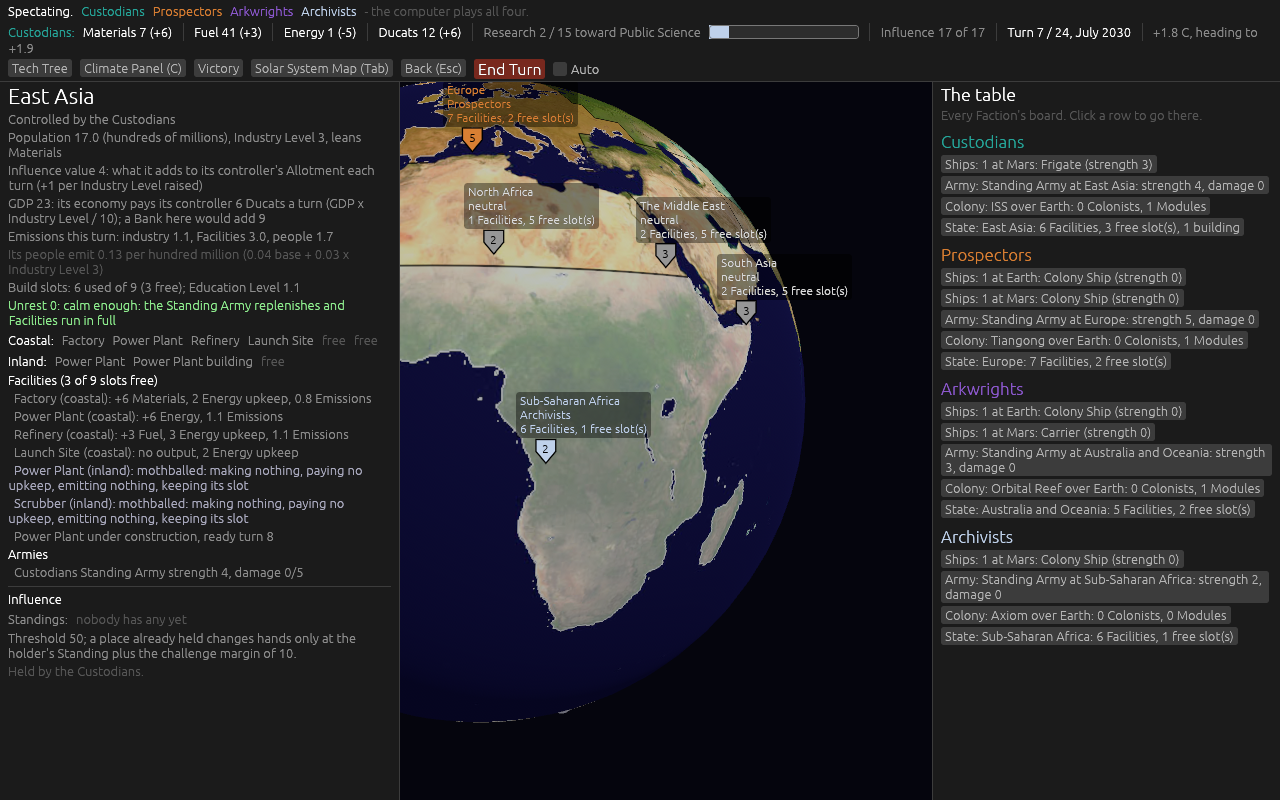
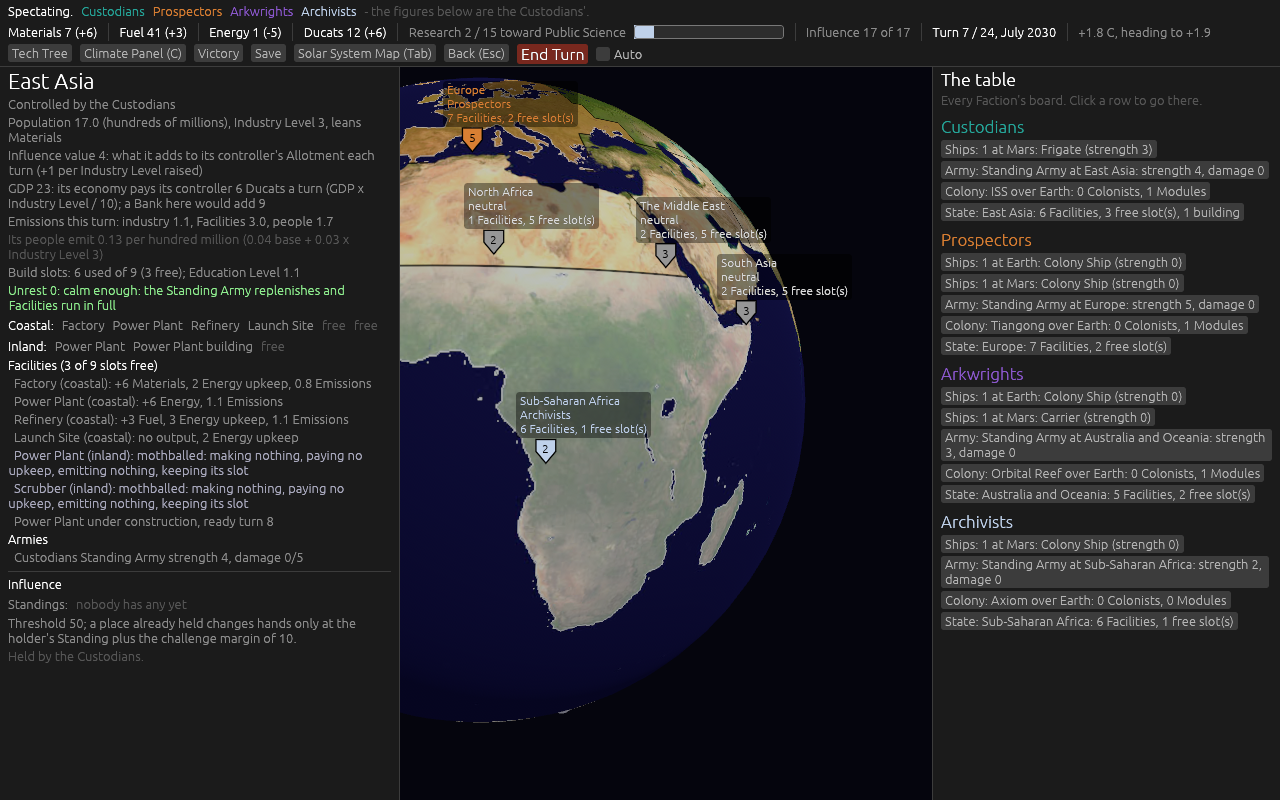
Ticket #60: four small fixes
A Wildfire on a neutral Nation State now charges its Emissions to the cards line; the state card's figure for taking a held place includes the challenge margin; the AI builds a Constabulary where Unrest has reached 5 by letting it take the victory-gap multiplier; the spectator's top bar fits one line.

Claude-Session: https://claude.ai/code/session_0142jnuNEp8W3FE5CKMd9o35

Changed region(s): [[0.0, 0.0, 0.5938, 0.8438], [0.7188, 0.0938, 1.0, 0.8125], [0.625, 0.0312, 0.9688, 0.0625]]

diff --git a/engine/tests/formulas.rs b/engine/tests/formulas.rs
@@ -4475,3 +4475,109 @@ fn the_spectators_dispatch_carries_every_factions_works_and_all_four_paragraphs(
     p.end_turn(std::array::from_fn(|_| Vec::new()));
     assert!(p.faction_paragraphs().iter().all(|(s, _)| *s != Seat(0)), "a player's Report keeps seat 0 out of the rivals");
 }
+// ---------------------------------------------------------------- Ticket #60: four small fixes
+
+/// A Wildfire is the world's carbon wherever it burns, so the Emissions it leaves stand on the
+/// cards line whether or not a Faction directs the state. Until this ticket the line sat inside the
+/// directed branch of `emissions_now` -- an accident of where ticket #24's `continue` landed -- so
+/// a Wildfire on a state nobody holds charged nothing at all.
+#[test]
+fn a_wildfire_on_a_neutral_nation_state_charges_its_emissions_to_the_cards_line() {
+    let mut g = game();
+    calm(&mut g);
+    let sid = StateId::NorthAfrica;
+    assert!(g.state(sid).control.director().is_none(), "North Africa is neutral at the start");
+    let before = g.emissions_now();
+    g.last_event = Some(DrawnEvent { card: Card::Event(EventId::Wildfire), target: EventTarget::State(sid), scale: 1.0, text: String::new() });
+    g.apply_event_now();
+    let after = g.emissions_now();
+    assert_eq!(after.cards - before.cards, g.tables.events.wildfire_emissions, "a Wildfire on a neutral state adds its Emissions to the cards line");
+    // And it stays the world's doing: nobody's Blame.
+    assert_eq!(after.by_seat, before.by_seat, "an Event card is nobody's Blame, neutral state or not");
+    // A Wildfire on a directed state charges the same line, as it always has.
+    let mut g = game();
+    calm(&mut g);
+    g.take_control(sid, Seat(1));
+    let before = g.emissions_now().cards;
+    g.last_event = Some(DrawnEvent { card: Card::Event(EventId::Wildfire), target: EventTarget::State(sid), scale: 1.0, text: String::new() });
+    g.apply_event_now();
+    assert_eq!(g.emissions_now().cards - before, g.tables.events.wildfire_emissions, "and a directed state is unchanged");
+}
+
+/// Ticket #41 put the challenge margin on a held place; the figure the state card printed for
+/// "N now" kept ticket #33's `controller + 1`, so the card asked for less than the Resolution
+/// would honour. `influence_needed_for` is the one computation all three read.
+#[test]
+fn the_figure_for_taking_a_held_place_includes_the_challenge_margin() {
+    let mut g = game();
+    let target = Place::State(StateId::NorthAfrica);
+    let margin = g.tables.influence.challenge_margin;
+    g.take_control(StateId::NorthAfrica, Seat(1));
+    let threshold = g.influence_threshold_for(Seat(0), target);
+    // The holder standing at the threshold: a challenger needs its Standing plus the margin.
+    g.seats[1].influence.insert(target, threshold);
+    assert_eq!(g.influence_needed_for(Seat(0), target), threshold + margin, "the holder's Standing plus the challenge margin");
+    // A holder with almost nothing: the threshold is the greater, and the figure is the threshold.
+    g.seats[1].influence.insert(target, 1);
+    assert_eq!(g.influence_needed_for(Seat(0), target), threshold, "the threshold, where it is the greater");
+    // A neutral place asks the threshold and nothing else.
+    let neutral = Place::State(StateId::SouthAsia);
+    assert_eq!(g.influence_needed_for(Seat(0), neutral), g.influence_threshold_for(Seat(0), neutral), "a neutral place asks the threshold");
+    // And it is the figure the Resolution actually applies: one short takes nothing.
+    let mut g = game();
+    g.take_control(StateId::NorthAfrica, Seat(1));
+    g.seats[1].influence.insert(target, g.influence_threshold_for(Seat(0), target));
+    let need = g.influence_needed_for(Seat(0), target);
+    let hold = |g: &mut Game| {
+        for s in Seat::ALL {
+            g.seats[s.index()].influenced_this_turn.push(target);
+        }
+    };
+    g.seats[0].influence.insert(target, need - 1);
+    hold(&mut g);
+    g.resolution_phase();
+    assert_eq!(g.state(StateId::NorthAfrica).control.controller(), Some(Seat(1)), "one short of the figure takes nothing");
+    g.seats[0].influence.insert(target, need);
+    hold(&mut g);
+    g.resolution_phase();
+    assert_eq!(g.state(StateId::NorthAfrica).control.controller(), Some(Seat(0)), "the figure itself takes the place");
+}
+
+/// Tickets #52 and #53 measured no Constabulary in any AI game: a building that fixes nothing
+/// economic never beat a producer under the victory-gap multiplier, so it never won a build slot.
+/// From Unrest 5 it takes that multiplier too, because a state at 7 halves every Facility there.
+#[test]
+fn a_custodian_ai_behind_on_pace_builds_a_constabulary_where_unrest_has_reached_seven() {
+    let mut g = game();
+    calm(&mut g);
+    let seat = Seat(0);
+    assert_eq!(g.kind(seat), FactionKind::Custodians);
+    assert_eq!(g.state(StateId::EastAsia).control.controller(), Some(seat), "seat 0 starts in East Asia");
+    // Behind on its pace: turn 14 with no Stabilization run at all, which is every game's shape.
+    g.turn = 14;
+    g.seats[seat.index()].stabilization_run = 0;
+    // Materials for three builds and no more, so the scored list has to RANK the Constabulary above
+    // the cheap economic answers rather than reach it once everything else is bought: at its bare
+    // weight of 6 it sits under the Research Lab's 8 and is never reached.
+    g.seats[seat.index()].stockpile.materials = 70;
+    g.seats[seat.index()].stockpile.energy = 100;
+    g.state_mut(StateId::EastAsia).unrest = 7.0;
+    assert!(g.free_slots(StateId::EastAsia) > 0, "a free slot to build it in");
+    let orders = g.ai_orders(seat);
+    let scored: Vec<String> = g.log.iter().cloned().filter(|l| l.contains("take") || l.contains("skip")).take(12).collect();
+    assert!(
+        orders.iter().any(|o| matches!(o, Order::BuildFacility { state: StateId::EastAsia, kind: FacilityKind::Constabulary })),
+        "no Constabulary where Unrest has reached 7: {orders:?}\nscored: {scored:#?}"
+    );
+    // And a calm state still gets none.
+    let mut g = game();
+    calm(&mut g);
+    g.turn = 14;
+    g.seats[seat.index()].stockpile.materials = 400;
+    g.seats[seat.index()].stockpile.energy = 100;
+    let orders = g.ai_orders(seat);
+    assert!(
+        !orders.iter().any(|o| matches!(o, Order::BuildFacility { kind: FacilityKind::Constabulary, .. })),
+        "a Constabulary in a calm state: {orders:?}"
+    );
+}

diff --git a/engine/src/ai.rs b/engine/src/ai.rs
@@ -400,7 +400,6 @@ impl Game {
         let scarce = self.scarcest(seat);
         let tight = self.energy_tight(seat);
         let allotment = self.seat(seat).allotment;
-        let margin = self.tables.influence.challenge_margin;
         let materials_income = self.seat(seat).income_last_turn.materials;
         let no_materials_income = materials_income == 0
             && !self.directed_states(seat).iter().any(|s| self.state(*s).facilities.iter().any(|f| f.kind == FacilityKind::Factory))
@@ -556,8 +555,19 @@ impl Game {
                     }
                     // Ticket #56: the Sea Wall doubles in worth while a threshold of any kind stands
                     // within 0.2 C of the Temperature and the state still has a coast to lose.
-                    let opportunity = if fk == FacilityKind::SeaWall && self.sea_is_close(sid) { m.opportunity } else { 1.0 };
-                    push(vec![Order::BuildFacility { state: sid, kind: fk }], cat, base, gap_for(cat, Some(name)), sway, opportunity, format!("build {} in {}", name, self.tables.state(sid).name), None);
+                    // Ticket #60: and a Constabulary doubles at Unrest 9, where one more turn would
+                    // throw the seat off the state, exactly as Relief doubles at the same figure.
+                    let seizes_the_moment = (fk == FacilityKind::SeaWall && self.sea_is_close(sid))
+                        || (fk == FacilityKind::Constabulary && self.state(sid).unrest >= 9.0);
+                    let opportunity = if seizes_the_moment { m.opportunity } else { 1.0 };
+                    // Ticket #60: #52 and #53 measured no Constabulary in any AI game -- a building
+                    // that fixes nothing economic never beat a producer under the victory-gap
+                    // multiplier, so it never won a build slot while the gap was wide. From Unrest 5
+                    // (the only Unrest at which the candidate is offered at all, above) it takes the
+                    // multiplier too, because a state at 7 halves every Facility's output and every
+                    // Facility's Emissions: calming it advances whatever the seat is behind on.
+                    let pull = if fk == FacilityKind::Constabulary { gap } else { gap_for(cat, Some(name)) };
+                    push(vec![Order::BuildFacility { state: sid, kind: fk }], cat, base, pull, sway, opportunity, format!("build {} in {}", name, self.tables.state(sid).name), None);
                 }
             }
             // Ticket #54: a Scrubber takes no build slot, so it is offered whether or not one is
@@ -733,13 +743,10 @@ impl Game {
         targets.sort_by(|a, b| b.1.partial_cmp(&a.1).unwrap());
         for (rank, (target, _)) in targets.iter().enumerate() {
             let have = self.seat(seat).influence.get(target).copied().unwrap_or(0);
-            let threshold = self.influence_threshold_for(seat, *target);
             // Ticket #33: a controlled place needs a standing above the controller's as well, by the
-            // challenge margin (ticket #41).
-            let needed = match self.place_control(*target).controller() {
-                Some(c) => threshold.max(self.seat(c).influence.get(target).copied().unwrap_or(0) + margin),
-                None => threshold,
-            };
+            // challenge margin (ticket #41). Ticket #60: one computation, shared with the Resolution
+            // and the state card.
+            let needed = self.influence_needed_for(seat, *target);
             let base = self.base_weight(seat, Cat::Influence) * (1.0 - 0.15 * rank as f64).max(0.3);
             let opp = if needed - have <= step { m.opportunity } else { 1.0 };
             let bought = if self.tables.ducats.per_influence > 0 { self.seat(seat).stockpile.ducats / self.tables.ducats.per_influence } else { 0 };

diff --git a/src/ui.rs b/src/ui.rs
@@ -778,15 +778,16 @@ fn top_bar(root: &mut Ui, session: &Session, game: &Game, view: &mut ViewState, 
                 for seat in Seat::ALL {
                     ui.label(RichText::new(game.seat_name(seat)).strong().color(seat_colour(session, seat)));
                 }
-                ui.label(RichText::new("- the computer plays all four.").weak());
+                // Ticket #60: whose Stockpile the row below shows, said here instead of as a prefix
+                // on that row: at 1280 wide the prefix pushed the Temperature onto a second line,
+                // and this line has room to spare. "- the computer plays all four." went with it,
+                // since four Faction names under "Spectating." say the same thing.
+                ui.label(RichText::new(format!("- the figures below are the {}'.", game.seat_name(Seat(0)))).weak());
             });
         }
         ui.horizontal_wrapped(|ui| {
             let s = game.seat(Seat(0));
             let (left, influence_left) = game.remaining(Seat(0), &session.pending);
-            if session.spectator {
-                ui.label(RichText::new(format!("{}:", game.seat_name(Seat(0)))).strong().color(seat_colour(session, Seat(0))));
-            }
             let inc = s.income_last_turn;
             let signed = |v: i64| if v >= 0 { format!("+{v}") } else { format!("{v}") };
             // Hover a resource for last Income by source (ticket #31).
@@ -1639,7 +1640,6 @@ fn influence_row(ui: &mut Ui, game: &Game, session: &Session, view: &mut ViewSta
     }
     // Ticket #53: the threshold shown is the player's own, since Blame raises it seat by seat.
     let threshold = game.influence_threshold_for(Seat(0), target);
-    let standing = |s: Seat| game.seat(s).influence.get(&target).copied().unwrap_or(0);
     standings_row(ui, game, session, target);
     ui.label(format!("Threshold {}; a place already held changes hands only at the holder's Standing plus the challenge margin of {}.", threshold, game.tables.influence.challenge_margin));
     // Ticket #53: on every Nation State the player does not hold, what its Blame is costing it here.
@@ -1658,7 +1658,10 @@ fn influence_row(ui: &mut Ui, game: &Game, session: &Session, view: &mut ViewSta
     }
     match game.place_control(target).controller() {
         Some(c) => {
-            let need = threshold.max(standing(c) + 1);
+            // Ticket #60: the engine's own figure, which the Resolution and the AI read too. It
+            // was `threshold.max(standing + 1)` here, which ignored the challenge margin ticket #41
+            // put on a held place, so the card printed a figure the Resolution would not honour.
+            let need = game.influence_needed_for(Seat(0), target);
             if c == Seat(0) {
                 ui.label(RichText::new(format!("Yours. A rival takes it with a standing above yours and at least the threshold: {need} now. Spending here raises your standing; it decays 1 a turn.")).weak());
             } else {

diff --git a/engine/src/resolution.rs b/engine/src/resolution.rs
@@ -705,21 +705,17 @@ impl Game {
         // the controller's plus the challenge margin (version 0.04, ticket #41) and at least the threshold.
         // Ticket #53: the threshold is the CHALLENGER's own, since Blame raises it seat by seat; the
         // challenge margin is the same for everyone.
-        let margin = self.tables.influence.challenge_margin;
+        // Ticket #60: that whole figure is `influence_needed_for`, which the AI and the state card
+        // read too, so what a card prints and what this applies cannot drift apart.
         let mut targets: Vec<Place> = StateId::ALL.into_iter().map(Place::State).collect();
         targets.extend(self.colonies.iter().map(|c| Place::Colony(c.id)));
         for target in targets {
             let controller = self.place_control(target).controller();
-            let held = controller.map(|c| self.seat(c).influence.get(&target).copied().unwrap_or(0) + margin);
             let qualifying: Vec<Seat> = Seat::ALL
                 .into_iter()
                 .filter(|s| {
                     let have = self.seat(*s).influence.get(&target).copied().unwrap_or(0);
-                    let needed = match held {
-                        Some(over) => self.influence_threshold_for(*s, target).max(over),
-                        None => self.influence_threshold_for(*s, target),
-                    };
-                    controller != Some(*s) && have > 0 && have >= needed
+                    controller != Some(*s) && have > 0 && have >= self.influence_needed_for(*s, target)
                 })
                 .collect();
             // Ticket #50: among challengers who all qualify the same turn, the higher Standing takes

diff --git a/engine/src/climate.rs b/engine/src/climate.rs
@@ -210,13 +210,12 @@ impl Game {
                     worn += charged;
                 }
                 b.by_seat[d.index()] += worn;
-                // An Event card is the world's doing, not a Faction's, so it is nobody's Blame.
-                // It stays inside the directed branch, where it has been since ticket #24: a
-                // Wildfire on a state nobody holds charges nothing at all today. That is almost
-                // certainly an accident of where the old `continue` sat rather than a rule, but
-                // moving it would change the Climate Model, so it is left for its own ticket.
-                b.cards += st.wildfire_emissions_next;
             }
+            // Ticket #60: an Event card is the world's doing, not a Faction's -- so it is nobody's
+            // Blame, and it burns whether or not anyone directs the state. Until this ticket the
+            // line sat inside the directed branch, an accident of where ticket #24's `continue`
+            // landed, and a Wildfire on a state nobody holds charged nothing at all.
+            b.cards += st.wildfire_emissions_next;
         }
         // Version 0.04 (ticket #44): a Module on Earth (Antarctica) emits as its counterpart Facility does.
         for col in self.colonies.iter().filter(|c| c.body == BodyId::Earth) {

diff --git a/engine/src/state.rs b/engine/src/state.rs
@@ -1269,6 +1269,19 @@ impl Game {
         self.threshold_with(target, m * self.blame_threshold_multiplier_on(seat, target))
     }
 
+    /// Ticket #60: the Standing this seat needs to take `target` as it stands now -- its own
+    /// threshold on a neutral place, and on a held one the greater of that and the holder's
+    /// Standing plus the challenge margin ticket #41 put there. The Resolution, the AI and the
+    /// state card all read this one computation, so the figure a card prints and the figure the
+    /// Resolution applies cannot drift apart again, as they did from #41 to here.
+    pub fn influence_needed_for(&self, seat: Seat, target: Target) -> i64 {
+        let threshold = self.influence_threshold_for(seat, target);
+        match self.place_control(target).controller() {
+            Some(c) => threshold.max(self.seat(c).influence.get(&target).copied().unwrap_or(0) + self.tables.influence.challenge_margin),
+            None => threshold,
+        }
+    }
+
     /// Ticket #53: Blame raises this seat's threshold on a Nation State it does not control, and
     /// on nothing else: never on a Colony, never on a Space Station, never on a place it holds.
     pub fn blame_threshold_multiplier_on(&self, seat: Seat, target: Target) -> f64 {

diff --git a/docs/dev-diary/2026-09-09-version-0.05/README.md b/docs/dev-diary/2026-09-09-version-0.05/README.md
@@ -1373,7 +1373,10 @@ written about.
   beside End Turn; East Asia's card is open on the left with its Facilities, its slots, its Unrest and
   its Standings and not one order button; the right panel is the whole table, Custodians in teal,
   Prospectors in orange, Arkwrights in violet and Archivists in pale silver-blue, each with its
-  Ships, Army, Colony and State.
+  Ships, Army, Colony and State. **Re-taken on ticket #60**: the Stockpile row used to carry a
+  "Custodians:" prefix that pushed the Temperature onto a second line at 1280 wide, so whose figures
+  they are is said on the seating line above instead ("- the figures below are the Custodians'.",
+  which also replaced "- the computer plays all four."), and every row of the bar is now one line.
 
 ![The Report in spectator mode: "Seed 7. Spectating." and the four Factions in their colours, a Break headline, then In space, On Earth, The climate, Builds and works, and What the Factions did with four coloured paragraphs](spectate-report.png)
 
